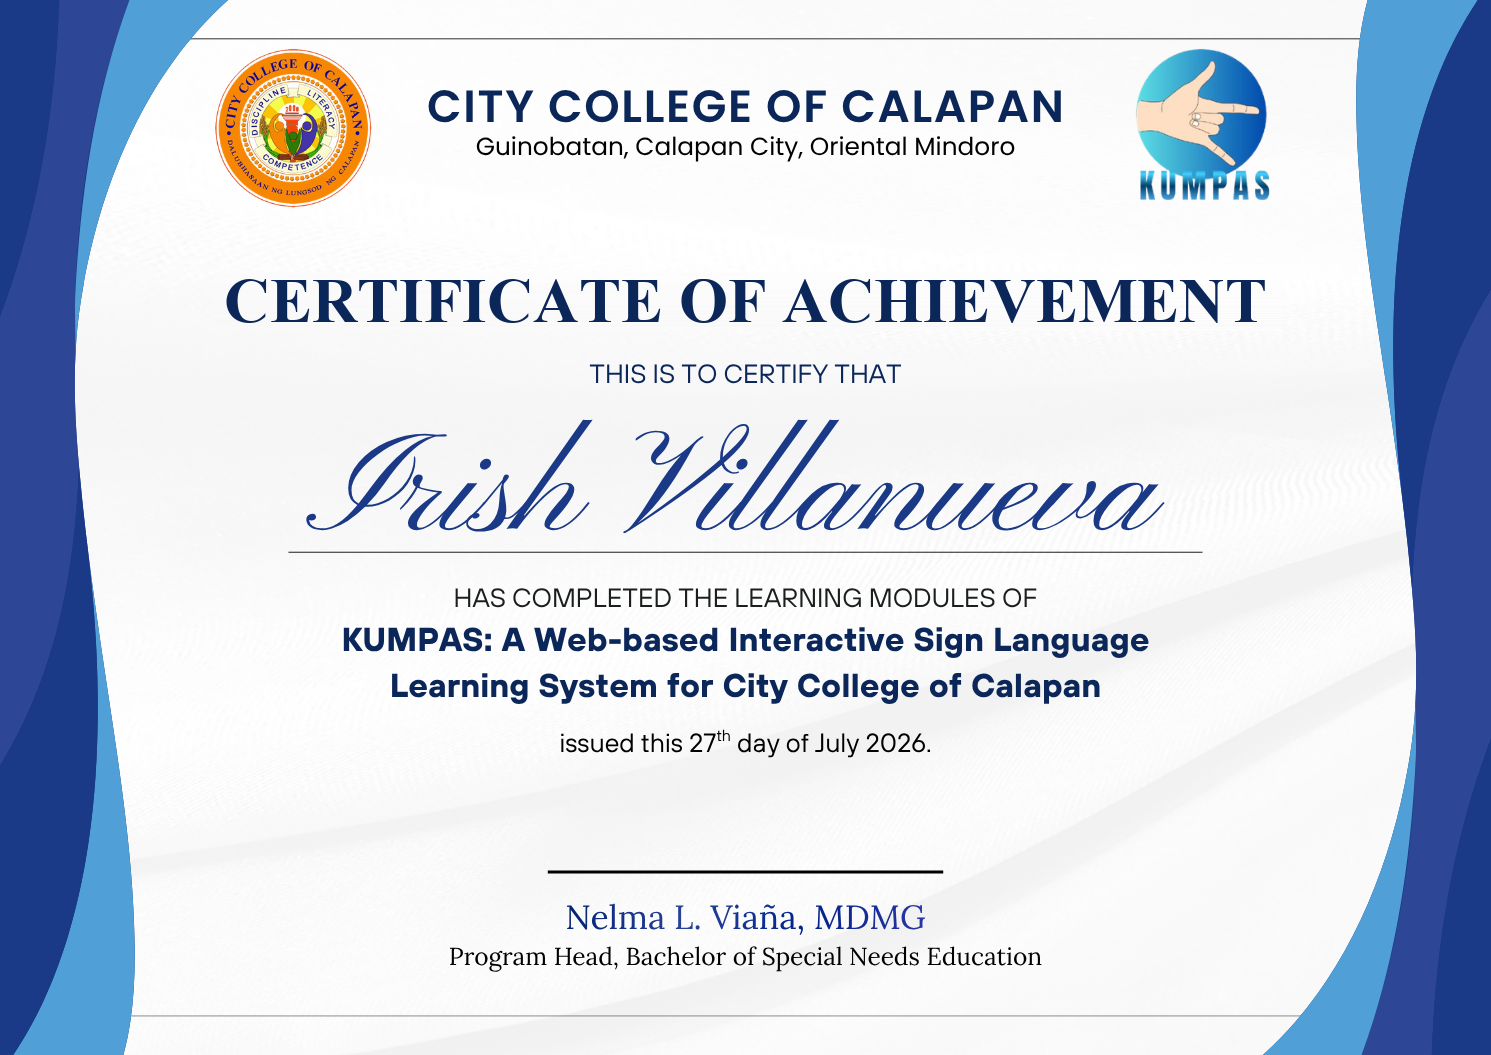
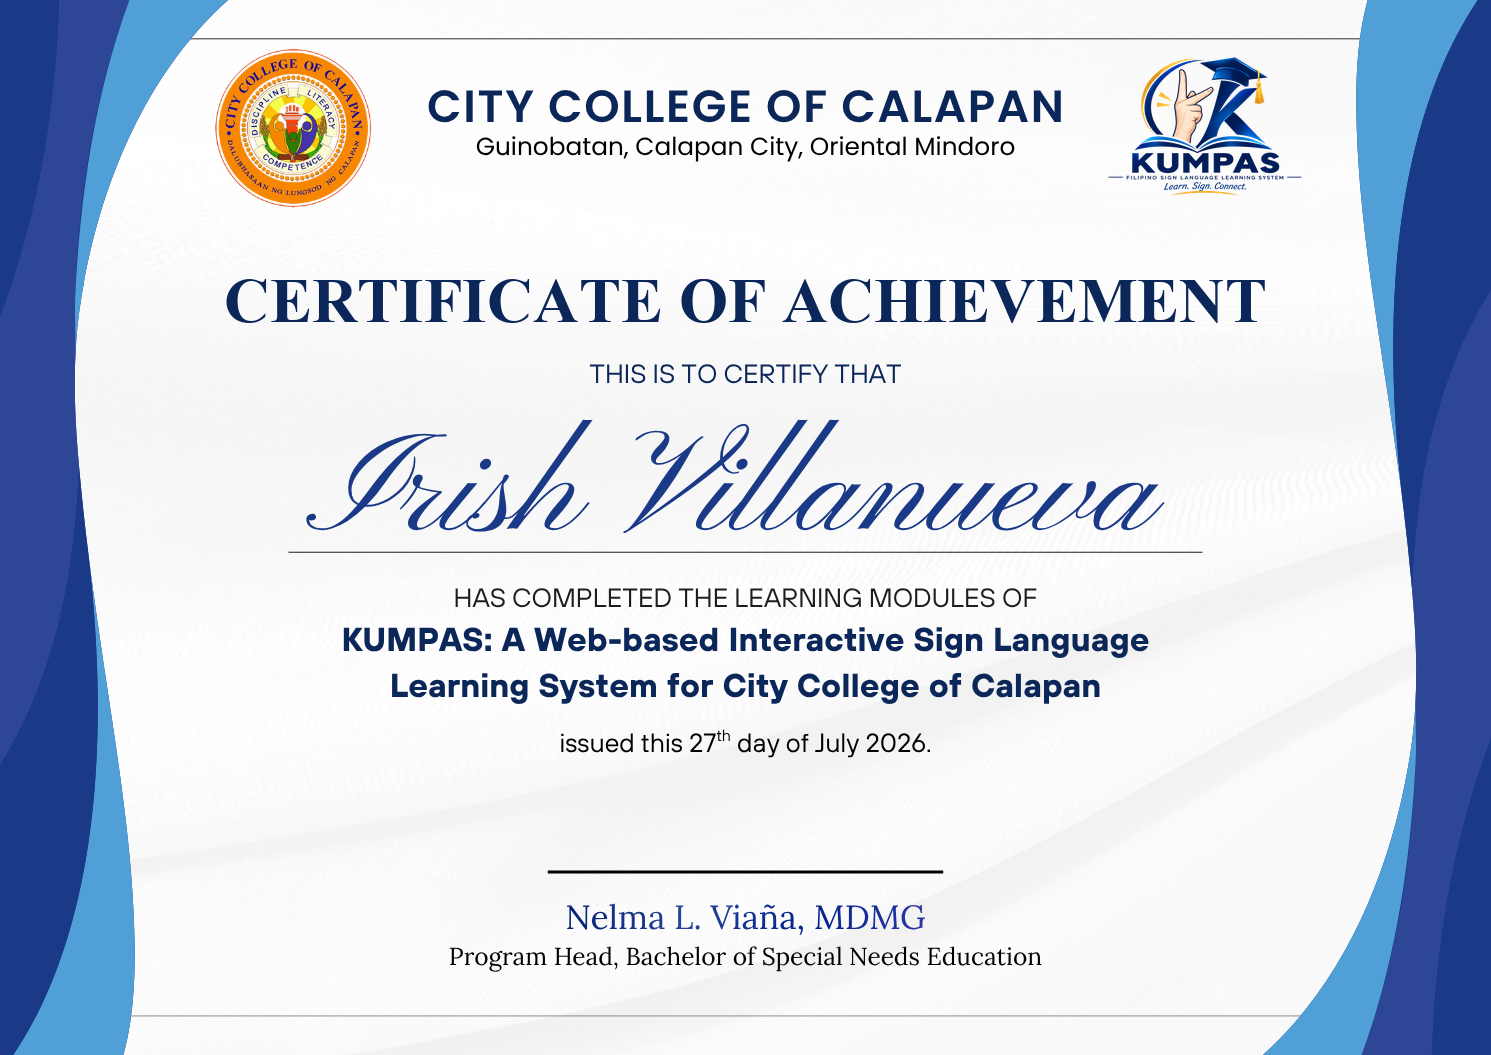
Updated project

Changed region(s): [[0.7404, 0.0303, 0.8638, 0.2123]]

diff --git a/sw.js b/sw.js
@@ -1,5 +1,7 @@
 // Kumpas service worker - basic offline cache for static assets
-var CACHE_NAME = 'kumpas-cache-v9';
+// v10: new Kumpas logo -- images are cache-first, so the cache must be
+// replaced or returning users keep seeing the old logo.
+var CACHE_NAME = 'kumpas-cache-v10';
 // api-config.js, auth.js, main.js, and google-config.js are excluded because
 // they drive login/redirect logic, the API base/auth-token plumbing, and
 // Google Sign-In configuration. games-common.js is excluded for the same
@@ -22,7 +24,9 @@ var PRECACHE_URLS = [
   'css/bg-orbs.css',
   'js/theme.js',
   'images/kumpas_logo.png',
-  'images/kumpas_logo1.png'
+  // images/kumpas_logo1.png was listed here but doesn't exist; a missing
+  // file makes cache.addAll() reject and the whole install fail.
+  'images/logo_transparent.png'
 ];
 // material-viewer.js (in-app lesson viewer) joined in v7, topic-viewer.js in v8, policy.js in v9.
 var NETWORK_ONLY_SCRIPTS = /\/js\/(api-config|auth|main|google-config|games-common|portal|material-viewer|topic-viewer|policy)\.js$/;

diff --git a/css/pages.css b/css/pages.css
@@ -72,9 +72,11 @@
   margin-bottom: 14px;
 }
 
+/* !important: style.css forces every .logo img to 68px tall, which shrank
+   this standalone logo to a thumbnail. */
 .login-page .auth-brand-logo {
-  width: clamp(160px, 22vw, 210px);
-  height: auto;
+  width: clamp(200px, 26vw, 260px) !important;
+  height: auto !important;
 }
 
 .auth-brand-text {
